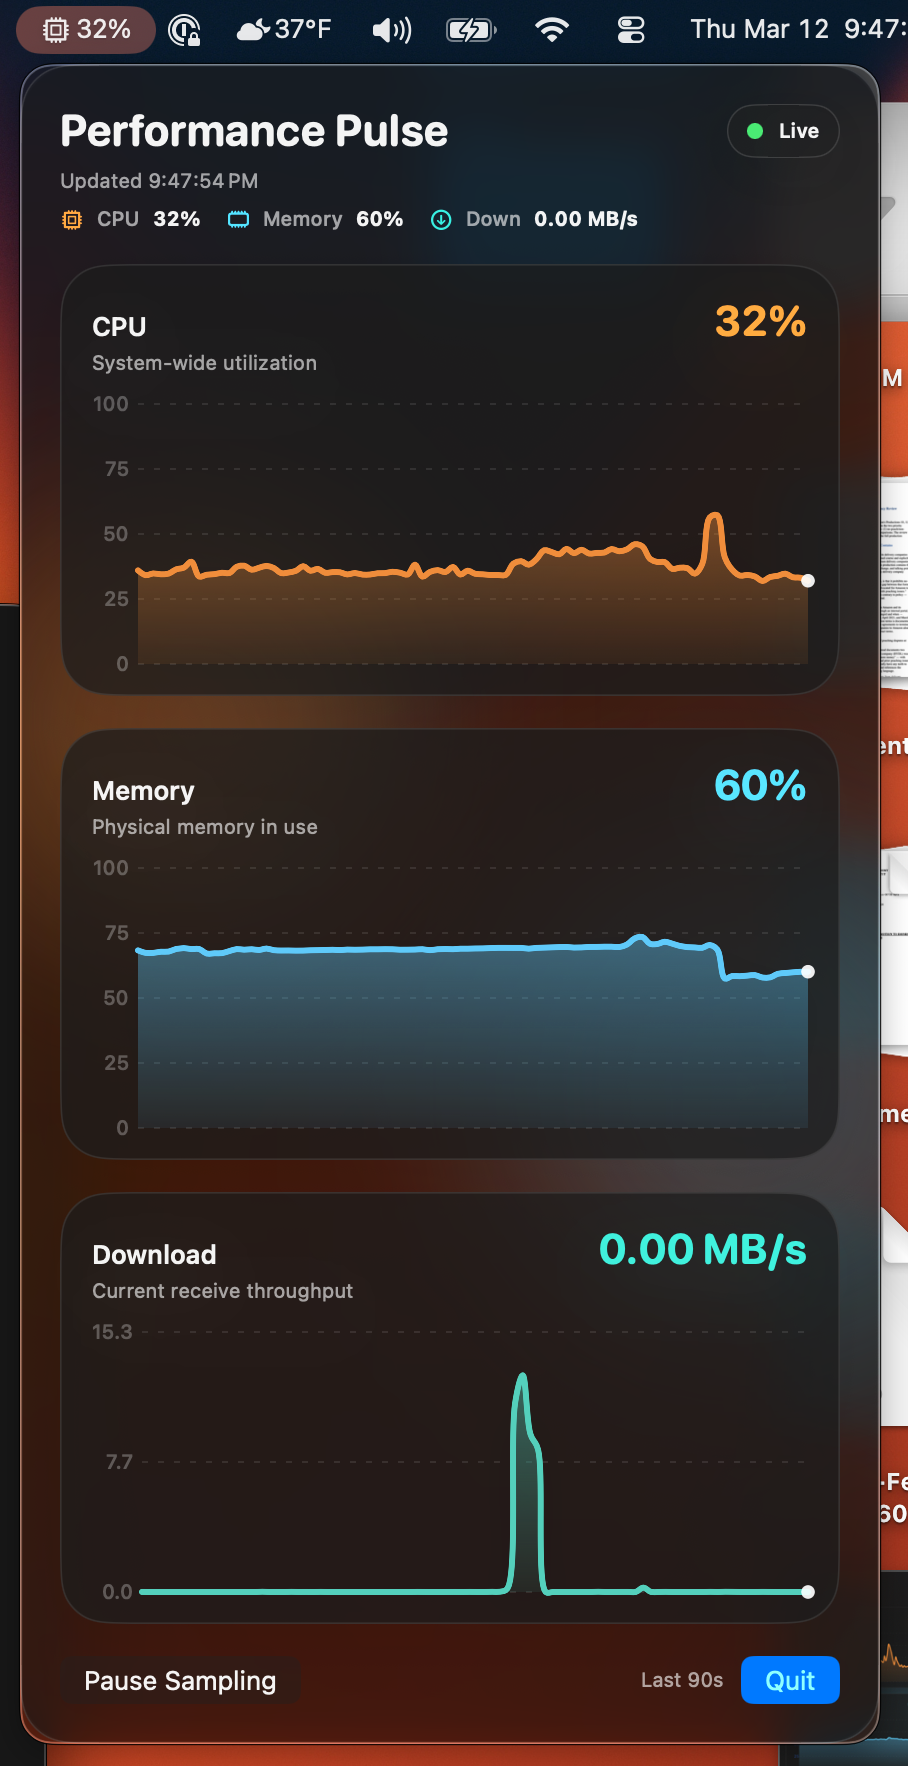
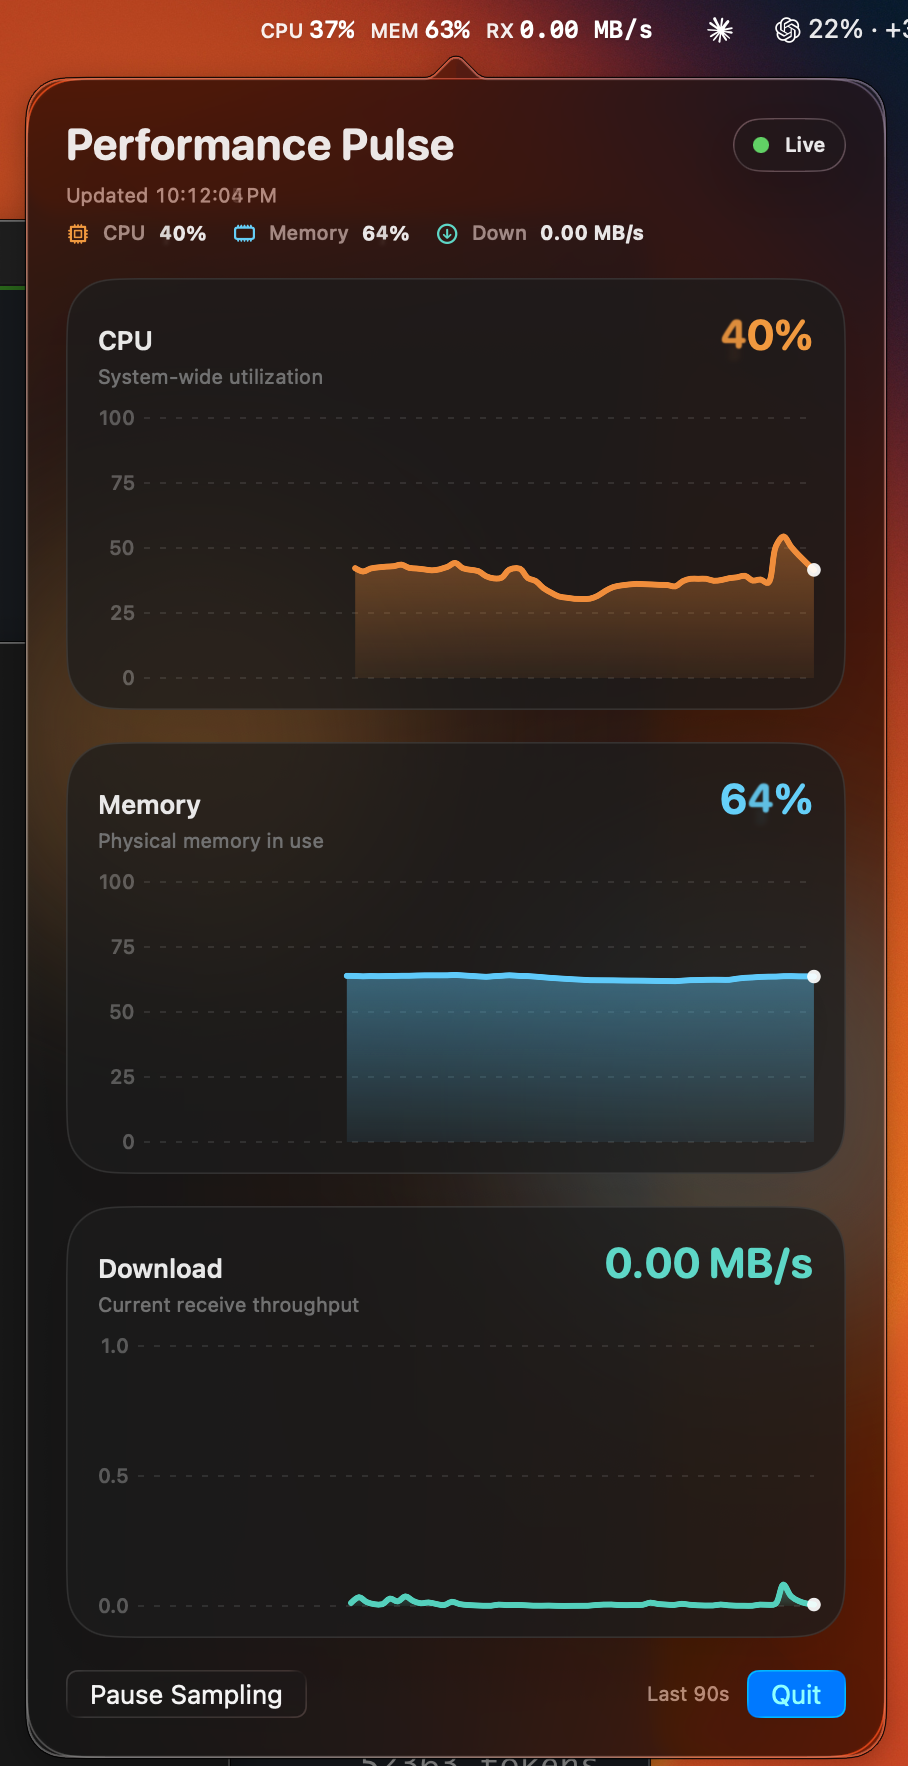
Refresh README screenshot and menu bar readout

diff --git a/Sources/PerformancePulse/StatusBarController.swift b/Sources/PerformancePulse/StatusBarController.swift
@@ -67,6 +67,7 @@ final class StatusBarController: NSObject {
         withObservationTracking {
             _ = self.store.currentSnapshot.formattedCPUUsage
             _ = self.store.currentSnapshot.formattedMemoryUsage
+            _ = self.store.currentSnapshot.formattedDownloadSpeed
         } onChange: { [weak self] in
             Task { @MainActor [weak self] in
                 self?.updateStatusItem()
@@ -79,14 +80,16 @@ final class StatusBarController: NSObject {
         guard let button = self.statusItem.button else { return }
 
         let title = NSMutableAttributedString()
-        title.append(self.makeSegment("CPU ", font: .systemFont(ofSize: 10, weight: .medium), color: .secondaryLabelColor))
-        title.append(self.makeSegment(self.store.currentSnapshot.formattedCPUUsage, font: .monospacedSystemFont(ofSize: 12, weight: .semibold), color: .labelColor))
-        title.append(self.makeSegment("   MEM ", font: .systemFont(ofSize: 10, weight: .medium), color: .secondaryLabelColor))
-        title.append(self.makeSegment(self.store.currentSnapshot.formattedMemoryUsage, font: .monospacedSystemFont(ofSize: 12, weight: .semibold), color: .labelColor))
+        title.append(self.makeSegment("CPU ", font: .systemFont(ofSize: 10, weight: .medium), color: NSColor.white.withAlphaComponent(0.92)))
+        title.append(self.makeSegment(self.store.currentSnapshot.formattedCPUUsage, font: .monospacedSystemFont(ofSize: 12, weight: .semibold), color: .white))
+        title.append(self.makeSegment("   MEM ", font: .systemFont(ofSize: 10, weight: .medium), color: NSColor.white.withAlphaComponent(0.92)))
+        title.append(self.makeSegment(self.store.currentSnapshot.formattedMemoryUsage, font: .monospacedSystemFont(ofSize: 12, weight: .semibold), color: .white))
+        title.append(self.makeSegment("   RX ", font: .systemFont(ofSize: 10, weight: .medium), color: NSColor.white.withAlphaComponent(0.92)))
+        title.append(self.makeSegment(self.store.currentSnapshot.formattedDownloadSpeed, font: .monospacedSystemFont(ofSize: 12, weight: .semibold), color: .white))
 
         button.attributedTitle = title
-        button.toolTip = "CPU \(self.store.currentSnapshot.formattedCPUUsage)  Memory \(self.store.currentSnapshot.formattedMemoryUsage)"
-        self.statusItem.length = max(112, ceil(title.size().width) + 18)
+        button.toolTip = "CPU \(self.store.currentSnapshot.formattedCPUUsage)  Memory \(self.store.currentSnapshot.formattedMemoryUsage)  Receive \(self.store.currentSnapshot.formattedDownloadSpeed)"
+        self.statusItem.length = max(196, ceil(title.size().width) + 18)
     }
 
     private func makeSegment(_ value: String, font: NSFont, color: NSColor) -> NSAttributedString {

diff --git a/README.md b/README.md
@@ -3,7 +3,7 @@
 Liquid Glass-inspired macOS menu bar monitor with live CPU, memory, and download-speed charts.
 
 <p align="center">
-  <img src="assets/performance-pulse.png" alt="Performance Pulse screenshot" width="454" />
+  <img src="assets/performance-pulse.png" alt="Performance Pulse screenshot" width="440" />
 </p>
 
 ## Overview
@@ -19,7 +19,7 @@ This is intentionally a menu bar utility, not a WidgetKit widget. WidgetKit time
 - Live download-speed sampling using active network interface byte counters
 - Swift Charts-based history graphs
 - Tahoe-style Liquid Glass presentation with Reduce Transparency fallback
-- Compact menu bar badges for CPU and memory at-a-glance
+- Compact menu bar readout for CPU, memory, and receive speed at a glance
 
 ## Build And Run
 
